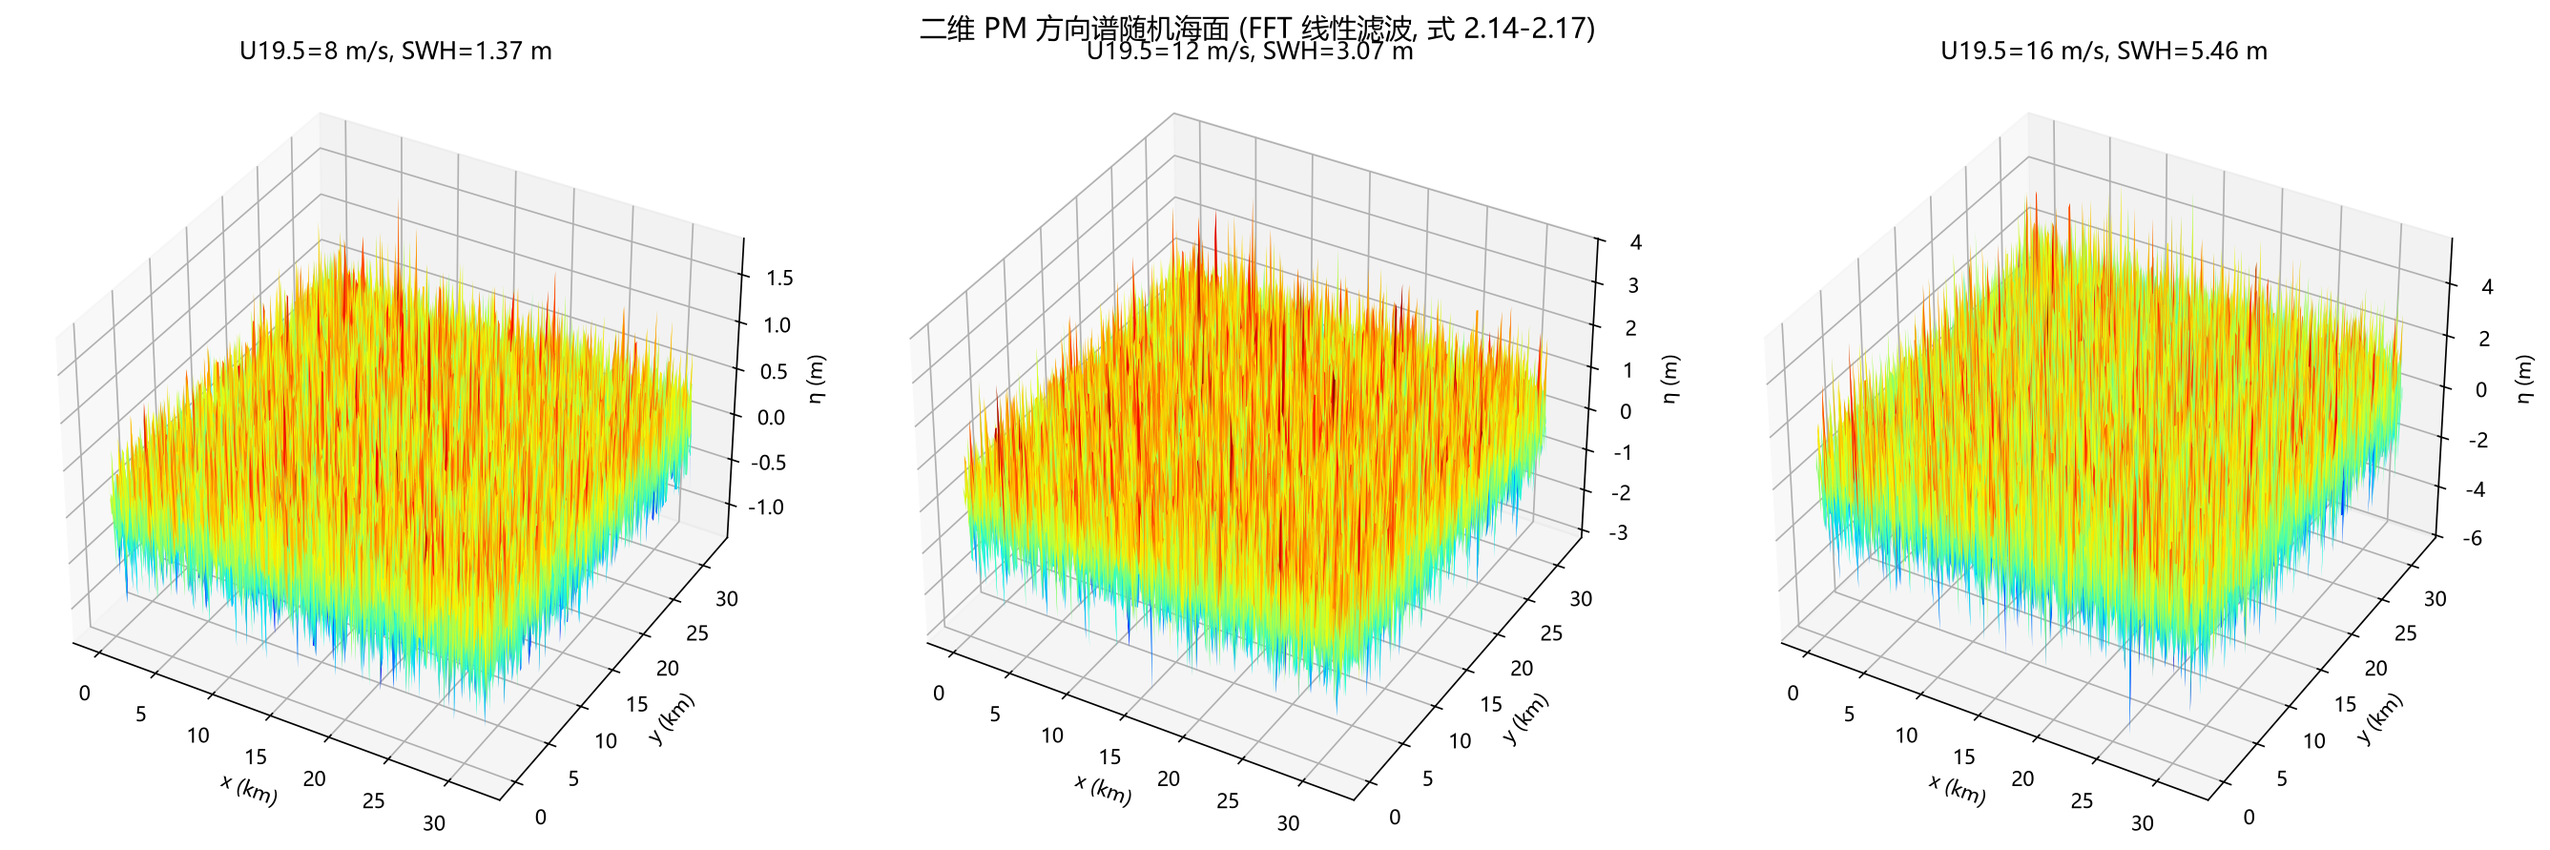
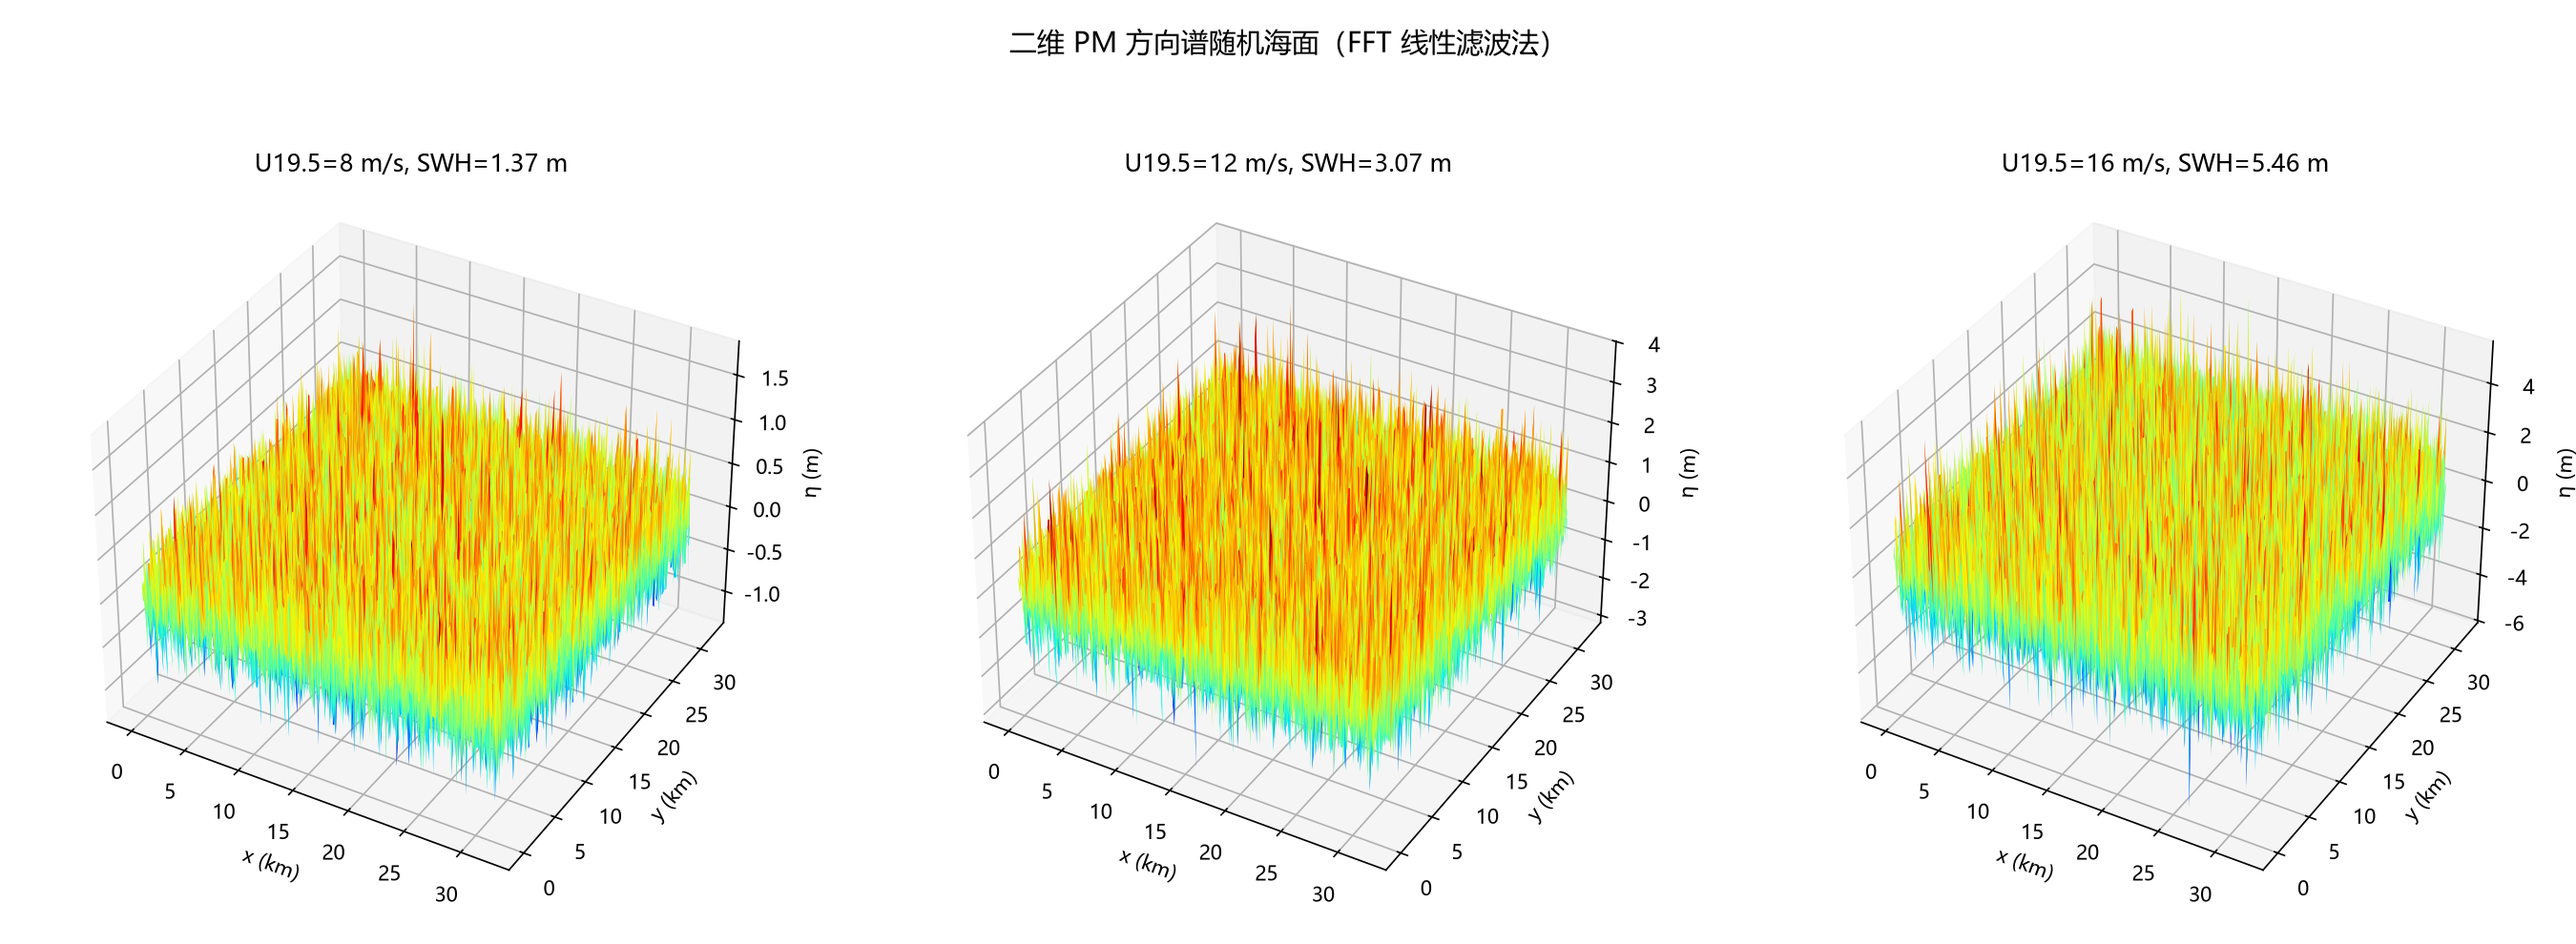
修复 pm_surfaces.png 标题叠印并抽出独立生成脚本

diff --git a/Echo_Simulation/make_pm_surfaces.py b/Echo_Simulation/make_pm_surfaces.py
@@ -1,0 +1,45 @@
+# -*- coding: utf-8 -*-
+"""重新生成 output/pm_surfaces.png（修复总标题与子图标题叠印）。
+
+内容与 run_ocean_echo_sim.py 的图 1 完全一致（同样的种子与抽样），
+仅修正排版：subplots_adjust 为 suptitle 留白，总标题不再引用式号。
+"""
+
+import matplotlib
+matplotlib.use("Agg")
+import matplotlib.pyplot as plt
+import numpy as np
+from pathlib import Path
+
+plt.rcParams["font.sans-serif"] = ["Microsoft YaHei", "SimHei", "DejaVu Sans"]
+plt.rcParams["axes.unicode_minus"] = False
+
+from pm_surface import generate_pm_surface, pm_swh
+
+WINDS_U195 = [8.0, 12.0, 16.0]
+L_DOMAIN = 32e3
+N_GRID = 2048
+SEED0 = 2026
+OUT = Path(__file__).resolve().parent / "output"
+
+fig = plt.figure(figsize=(18, 6.6))
+for i, u195 in enumerate(WINDS_U195):
+    eta, meta = generate_pm_surface(u195, L_DOMAIN, N_GRID, 0.0, seed=SEED0)
+    s = eta[::8, ::8]
+    xs = np.arange(s.shape[1]) * (L_DOMAIN / N_GRID) * 8 / 1e3
+    ys = np.arange(s.shape[0]) * (L_DOMAIN / N_GRID) * 8 / 1e3
+    Xs, Ys = np.meshgrid(xs, ys)
+    ax = fig.add_subplot(1, 3, i + 1, projection="3d")
+    ax.plot_surface(Xs, Ys, s, cmap="jet", rstride=1, cstride=1,
+                    linewidth=0, antialiased=True)
+    ax.set_xlabel("x (km)")
+    ax.set_ylabel("y (km)")
+    ax.set_zlabel("η (m)")
+    ax.set_title(f"U19.5={u195:.0f} m/s, SWH={pm_swh(u195):.2f} m")
+    ax.view_init(elev=35, azim=-60)
+    ax.ticklabel_format(style="plain")
+fig.suptitle("二维 PM 方向谱随机海面（FFT 线性滤波法）", fontsize=14, y=0.97)
+fig.subplots_adjust(left=0.02, right=0.98, bottom=0.03, top=0.82, wspace=0.22)
+fig.savefig(OUT / "pm_surfaces.png", dpi=150)
+plt.close(fig)
+print("已重新生成", OUT / "pm_surfaces.png")
